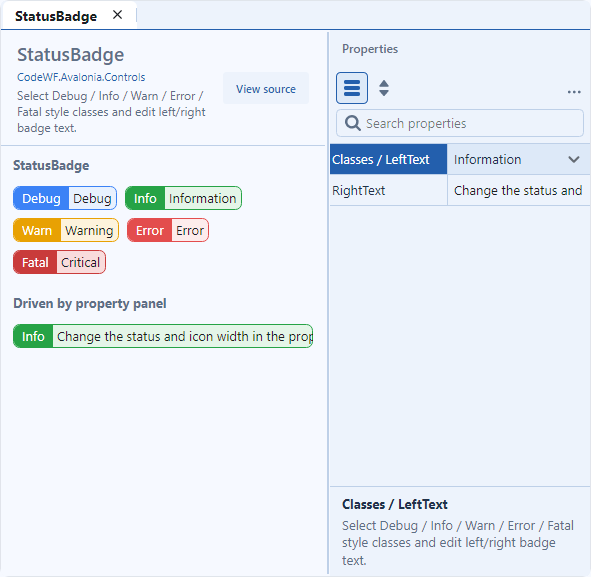
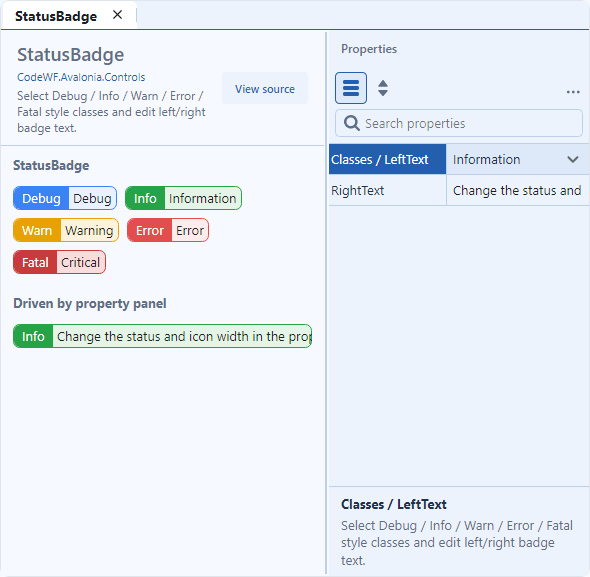
docs: 发布12.1.4.22并更新原生控件与停靠验证记录

diff --git a/docs/NativeDemo.md b/docs/NativeDemo.md
@@ -1,10 +1,11 @@
 # CodeWF.Avalonia 原生 Demo
 
-当前版本 `12.1.4.21`。Demo 使用 Ribbon + Dock，以单个控件或公开 API 为导航单位：8 个分类、32 个页面。目录由 `design/catalog.json` 统一维护，它也是 Demo 的构建输入，不能在构建前删除。
+当前版本 `12.1.4.22`。Demo 使用 Ribbon + Dock，以单个控件或公开 API 为导航单位：8 个分类、32 个页面。目录由 `design/catalog.json` 统一维护，它也是 Demo 的构建输入，不能在构建前删除。
 
 ## 窗口与演示
 
 - 每个演示是一个 Dock Document；内部使用 `Grid + GridSplitter` 放置内容和属性面板。分屏、浮动、重新停靠时使用 Dock 官方内容回收模板，保留同一份视图、参数和属性状态。
+- 文档组位于独立且不可折叠的中央比例容器内。文档分屏后再浮动，不会把导航区一起归一化；回归同时检查默认份额和手动调整后的份额及实际宽度。
 - 首屏聚焦真实功能、输入和结果，源码按需展开；介绍页提供全局设置，其他页面仅显示自身参数。
 - Ribbon 组只显示标题；主命令图标 32×32，快捷图标 18×18、点击热区 30×30。密集分组双行排列，窄窗口可以横向滚动。
 - 属性面板使用 Semi 图标，搜索独占下一行。名称列默认 118px、行高 31px；横竖分隔线支持拖动调整列宽和行高。文本、数值、下拉编辑器铺满值单元格，默认无边框；下拉文本左对齐。
@@ -29,7 +30,9 @@ pwsh scripts/publish_avalonia_demo.ps1 -RuntimeIdentifier win-x64
 
 `scripts/localization-verification` 加载真实 App、XAML 和 Skia，在锁屏期间离屏运行；验证八色点、Ursa 内部按钮的实际点击、语言列表、1120/1440 宽度，以及 Dock 分屏 → 浮动 → 重新停靠。页面覆盖 1024 个页面/语言/配色组合。渲染数量只表示覆盖范围，不代表全页视觉还原率。
 
-2026-10-15 的 `12.1.4.21` 已完成正式 Windows x64 NativeAOT 发布及最终验证器实际运行：八色三态、动态语言提示、语言下拉、分屏／浮动／重新停靠、宿主同键覆盖和 1024 组目录渲染全部通过；Controls 的 93 项测试通过，单文件原型的 128 组路由／语言／宽度检查通过。
+2026-10-15 的 `12.1.4.22` 已完成 Windows x64 NativeAOT 验证器实际运行：八色三态、动态语言提示、语言下拉、分屏／浮动／重新停靠、宿主同键覆盖和 1024 组目录渲染全部通过。即时编辑表格增加窄宽窗口下的内容列宽断言，同一菜单连续切换四种语言并热覆盖宿主翻译；Markdown 编辑器的 80 项测试通过。单文件原型的 128 组路由／语言／宽度审计同时逐页校验真实参数类型、顺序、只读状态和交互效果。
+
+正式 Demo 另提供 `--verify-runtime <独立目录>`：直接运行发布的 NativeAOT EXE，检查两种输出语言及全部 32 条内嵌目录，不启动窗口、不读取用户配置。Windows 发布流水线在制作安装器前执行该检查；它与加载真实控件的 UI 验证器分别验证正式产物与界面行为。
 
 Windows 本机执行仓库发布脚本，再运行 NativeAOT 验证器并制作 EXE 安装包。发布工作流分别在对应平台生成 win-x64、linux-x64、linux-arm64、osx-x64、osx-arm64 的 EXE / DEB / DMG 和 SHA-256；不提供便携压缩包。
 
@@ -39,4 +42,4 @@ Windows 本机执行仓库发布脚本，再运行 NativeAOT 验证器并制作 
 
 浏览器原型不运行 .NET、原生窗口、网络后端或系统安装。字体度量、Dock 页签与窗口按钮受平台和第三方模板影响，页面非空和局部几何通过均不能视为达到 95% 全页还原。
 
-本轮后台验证不会操作锁屏桌面。人工鼠标拖出、多 DPI、跨屏、输入法及安装器交互仍需在桌面可用时补充；Linux/macOS 的构建与安装结构由对应 CI 验证，本机没有运行它们的 UI。NativeAOT 仍存在第三方 Prism/DryIoc 等裁剪分析警告，验证结果只覆盖实际调用路径。
+本轮后台验证不会操作锁屏桌面。人工鼠标拖出、多 DPI、跨屏、输入法及安装器交互仍需在桌面可用时补充；Linux/macOS 的构建与安装结构由对应 CI 验证，本机没有运行它们的 UI。Demo 将传递 XAML Loader 固定到 Avalonia 12.1.4，避免混用 11.x 解析器。旧 Prism 8 的未使用 DialogWindow 路径仍有缺失绑定方法的 AOT 警告，Prism/DryIoc 等也有裁剪分析警告；保留原反射元数据配置，验证结果只覆盖实际调用路径。

diff --git a/README.md b/README.md
@@ -178,7 +178,7 @@ Each Dock document contains its demonstration and property panel; both move toge
 
 Windows x64 NativeAOT Demo：标题栏仅保留平铺八色点，模式复用 Ursa 三态按钮，语言图标弹出列表，默认 .NET 紫，共八套配色；浅色、深色与跟随系统分别选择。首页目录包含 32 个页面，实验区按需展开；完整功能与验收范围见上面的文档。
 
-当前 `12.1.4.21` 的 Dock 文档分屏、浮动与重新停靠效果（真实 Windows NativeAOT + Skia 离屏渲染）：
+当前 `12.1.4.22` 的 Dock 文档分屏、浮动与重新停靠效果（真实 Windows NativeAOT + Skia 离屏渲染）：
 
 ![文档与属性面板同步停靠](https://raw.githubusercontent.com/dotnet9/CodeWF.Avalonia/main/docs/images/studio-dock-redocked.png)
 
@@ -201,7 +201,7 @@ Windows x64 NativeAOT Demo：标题栏仅保留平铺八色点，模式复用 Ur
 ![主题与实验截图巡览](https://raw.githubusercontent.com/dotnet9/CodeWF.Avalonia/main/docs/images/studio-interactions.gif)
 
 ```bash
-# 桌面演示台：Ribbon 页签 + Dock 工作区（左导航 / 文档内效果与属性 / 下日志），含 .NET 紫、AI 极光、AI 暖陶与原有六套 Semi 配色，支持深浅与双语切换
+# 桌面演示台：Ribbon 页签 + Dock 工作区（左导航 / 文档内效果与属性 / 下日志），含 .NET 紫、AI 极光、AI 赤陶、默认蓝、水生、沙漠、黄昏、夜空八套配色，支持深浅与双语切换
 dotnet run --project demo/CodeWF.Avalonia.Demo -f net10.0
 
 # 冒烟模式：逐页构建后逐色板渲染一遍再退出，退出码 0 表示全部页面构建 + 渲染通过（CI 使用）
@@ -214,7 +214,7 @@ dotnet run --project demo/CodeWF.Avalonia.Demo -f net10.0 -- --smoke
 
 - `ci.yml`：`dotnet build -c Release` + `dotnet test`，外加 NativeAOT 发布并在 Windows 上运行 `--smoke`。
 - `publish-nuget.yml`：推送 `v*` tag 时打包并发布 NuGet（Trusted Publishing）。
-- `release.yml`：同一 tag 触发全平台演示应用发布（6 个 RID：win-x64/x86、linux-x64/arm64、osx-x64/arm64）。
+- `release.yml`：同一 tag 触发五平台演示应用发布（win-x64、linux-x64、linux-arm64、osx-x64、osx-arm64）。
 - 版本号前三跟随 Avalonia，第四位为本仓修订，例如 `v12.1.4.4`。
 - 变更记录见 [UpdateLog.md](UpdateLog.md)。
 

diff --git a/UpdateLog.md b/UpdateLog.md
@@ -1,5 +1,15 @@
 # 更新日志
 
+## 12.1.4.22 (2026-10-15)
+
+- 修复 CodeWFWindow 自绘最小化按钮忽略 CanMinimize 的问题；运行时切换能力立即更新按钮，禁用时点击不会改变窗口状态。
+- 增加真实窗口模板的能力切换与按钮点击回归，覆盖关于窗口等禁止最小化的场景。
+- 即时编辑表格复用只读渲染器的按内容列宽布局，避免短名称列和长描述列被等分；编辑动作与表格菜单使用内嵌四语 JSON 和 T4 强类型资源，已有菜单支持全局动态切语与宿主同键热覆盖。
+- 原型 32 页的属性类型、顺序与实际效果按原生 BuildProperties 校准，输入、数值、只读项和综合示例状态加入自动审计。
+- Demo 固定传递 XAML Loader 为 Avalonia 12.1.4，避免旧解析器缺失类型；新增无需桌面的正式原生程序资源与目录自检。
+- 文档区使用独立的不可折叠比例容器，修复分屏后拖出文档使导航区被重新归一化变宽的问题；默认和用户调整后的导航份额均保持。
+- 即时表格外框随实际列宽收紧，消除右侧看似空白列的延展；状态徽标默认文案随语言刷新，并保留用户编辑的内容、状态和图标宽度。
+
 ## 12.1.4.21 (2026-10-15)
 
 - 标题栏去掉重复配色下拉，改用 Ursa 三态模式按钮与可扩展语言图标下拉；原型和真实交互验证同步更新，内部模式提示随语言实时变化。
